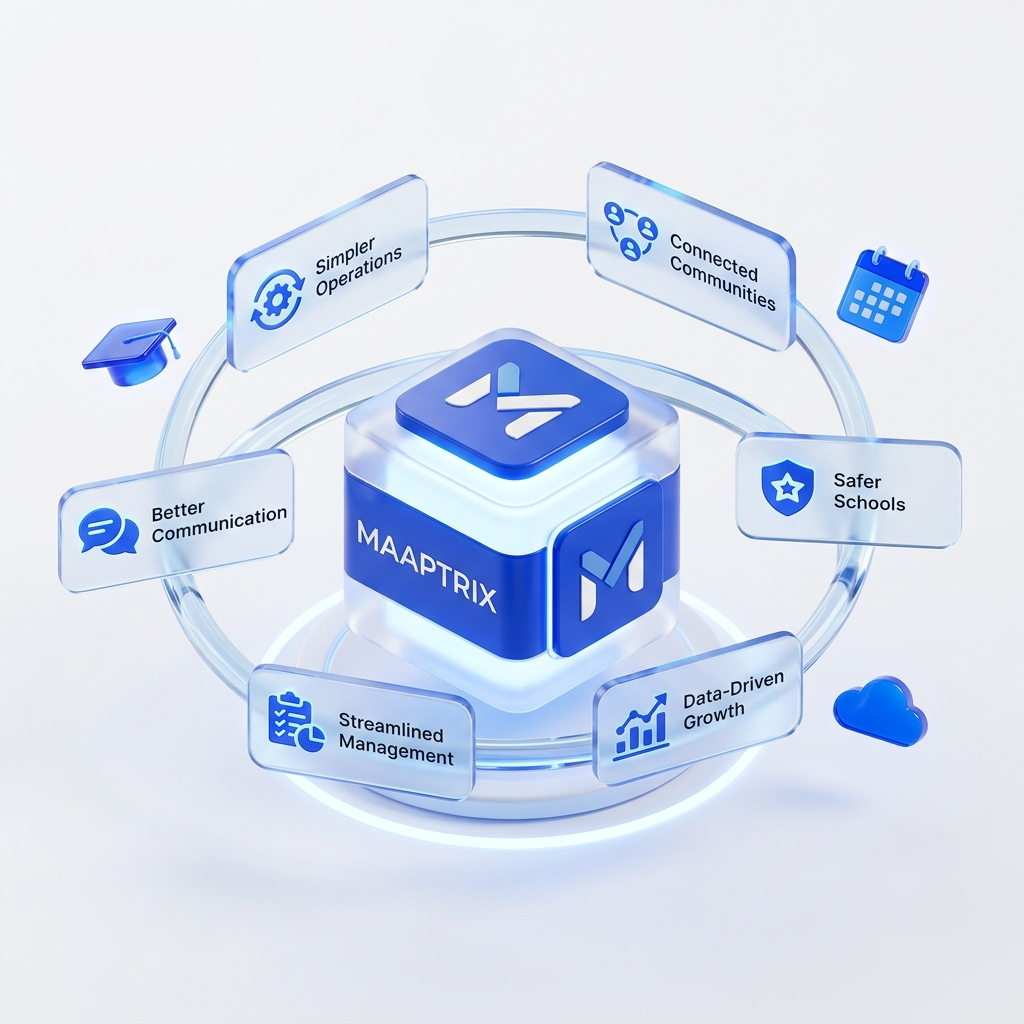
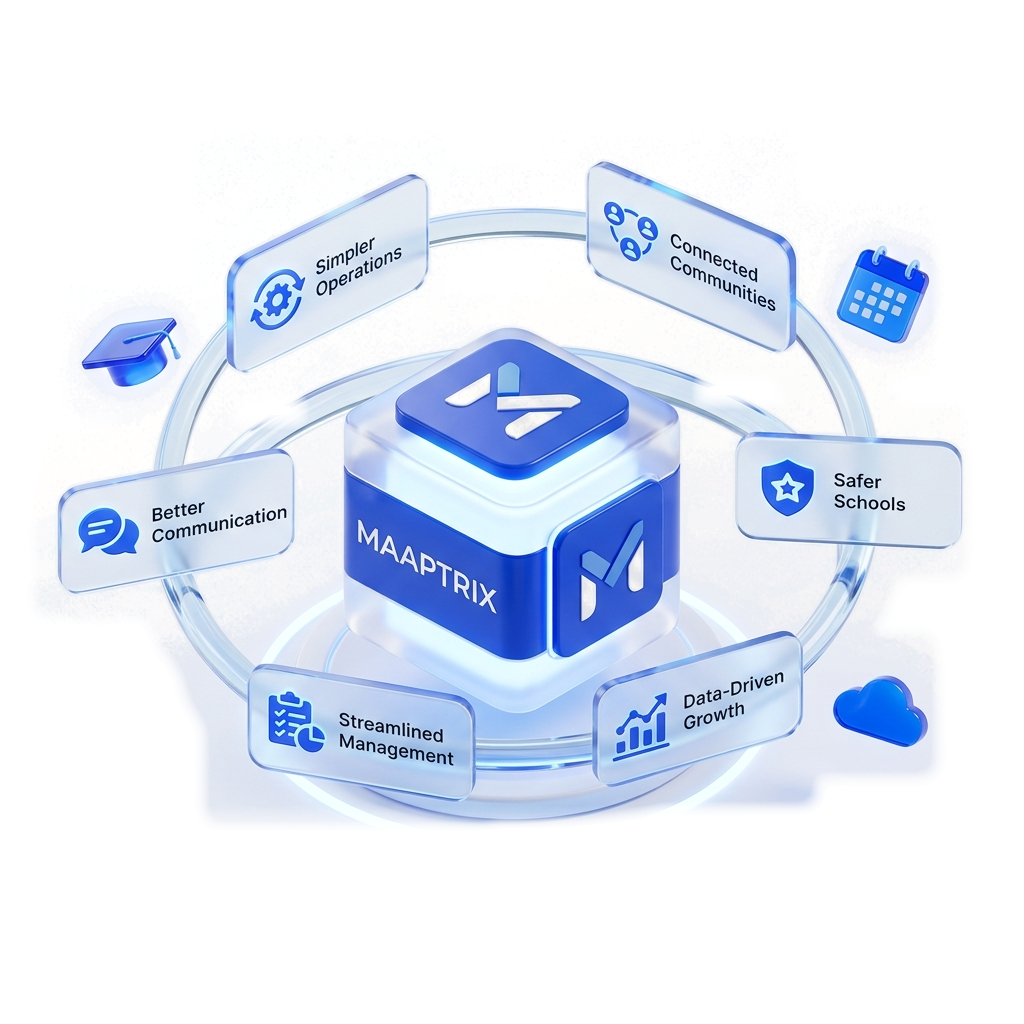
how we work update

Changed region(s): [[0.0, 0.6562, 1.0, 1.0], [0.6562, 0.375, 0.75, 0.4062], [0.25, 0.375, 0.3125, 0.4375]]

diff --git a/src/components/contact/ContactSection.tsx b/src/components/contact/ContactSection.tsx
@@ -1,7 +1,7 @@
 "use client";
 
 import { useRef, useState } from "react";
-import { ArrowRight, CheckCircle2, Globe, Mail, Headphones, RefreshCw } from "lucide-react";
+import { ArrowRight, CheckCircle2, Globe, Mail, RefreshCw } from "lucide-react";
 import Reveal from "@/components/Reveal";
 
 const CONTACT_EMAIL = "hello@maaptrix.com";
@@ -102,18 +102,10 @@ function Field({
 
 function ContactForm({
   formRef,
-  demoRequests,
 }: {
   formRef: React.RefObject<HTMLFormElement | null>;
-  demoRequests: number;
 }) {
   const [data, setData] = useState<FormData>(EMPTY);
-  // "Request a Demo" pre-selects the demo enquiry type (adjusting state during render).
-  const [appliedDemo, setAppliedDemo] = useState(0);
-  if (demoRequests !== appliedDemo) {
-    setAppliedDemo(demoRequests);
-    setData((d) => ({ ...d, enquiryType: "Demo request" }));
-  }
   const [errors, setErrors] = useState<FormErrors>({});
   const [submitting, setSubmitting] = useState(false);
   const [sent, setSent] = useState<string | null>(null);
@@ -287,14 +279,6 @@ const DETAILS = [
 export default function ContactSection() {
   const formRef = useRef<HTMLFormElement>(null);
 
-  const [demoRequests, setDemoRequests] = useState(0);
-
-  const requestDemo = () => {
-    setDemoRequests((n) => n + 1);
-    formRef.current?.scrollIntoView({ behavior: "smooth", block: "start" });
-    window.setTimeout(() => document.getElementById("fullName")?.focus({ preventScroll: true }), 400);
-  };
-
   return (
     <section className="surface-glow-left pb-16 pt-12 sm:pb-20 sm:pt-14" aria-label="Contact details and enquiry form">
       <div className="page-container">
@@ -308,7 +292,7 @@ export default function ContactSection() {
               </p>
             </div>
 
-            <dl className="space-y-3">
+            <dl className="space-y-4">
               {DETAILS.map(({ icon: Icon, label, value, href }) => (
                 <div key={label}>
                   <dt className="sr-only">{label}</dt>
@@ -330,30 +314,10 @@ export default function ContactSection() {
                 </div>
               ))}
             </dl>
-
-            <div className="relative flex items-start gap-5 overflow-hidden rounded-[16px] bg-[linear-gradient(135deg,#EAF4FF_0%,#D9EBFF_100%)] px-5 py-5">
-              <span className="flex h-14 w-14 shrink-0 items-center justify-center rounded-xl bg-brand-blue-light text-brand-blue">
-                <Headphones className="h-7 w-7" aria-hidden />
-              </span>
-              <div>
-                <p className="font-display text-[17px] font-bold text-brand-navy">Looking for a product demo?</p>
-                <p className="mt-1.5 text-[15px] leading-relaxed text-slate-600">
-                  Tell us what you need and our team will get in touch.
-                </p>
-                <button
-                  type="button"
-                  onClick={requestDemo}
-                  className="group mt-3 inline-flex cursor-pointer items-center gap-2 text-[16px] font-semibold text-brand-blue hover:text-brand-blue-dark"
-                >
-                  Request a Demo
-                  <ArrowRight className="h-4 w-4 transition-transform group-hover:translate-x-1" aria-hidden />
-                </button>
-              </div>
-            </div>
           </Reveal>
 
           <Reveal delay={0.08} className="relative z-10 lg:order-2 lg:-mt-[196px]">
-            <ContactForm formRef={formRef} demoRequests={demoRequests} />
+            <ContactForm formRef={formRef} />
           </Reveal>
         </div>
       </div>

diff --git a/src/components/how-we-work/HowWeWorkHero.tsx b/src/components/how-we-work/HowWeWorkHero.tsx
@@ -96,7 +96,7 @@ export default function HowWeWorkHero() {
             className="relative mx-auto w-full max-w-[620px] min-w-0 lg:mx-0 lg:w-auto"
           >
             <Image
-              src="/hero/how-we-work-approach-white.png"
+              src="/hero/how-we-work-approach-seamless.png"
               alt="Maaptrix product platform at the centre of connected capabilities: simpler operations, connected communities, better communication, safer schools, streamlined management and data-driven growth"
               width={912}
               height={912}
